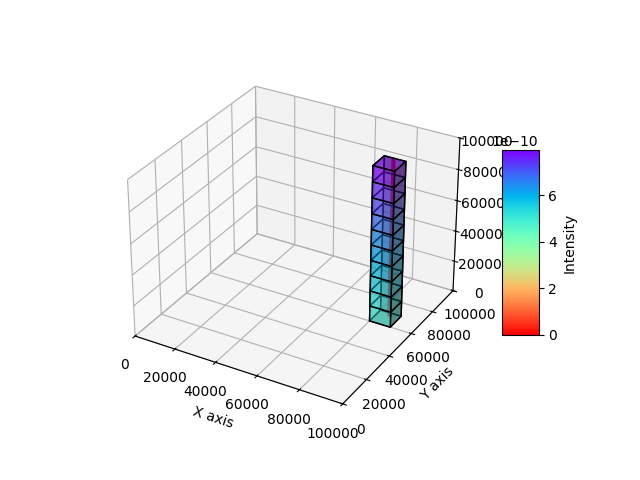
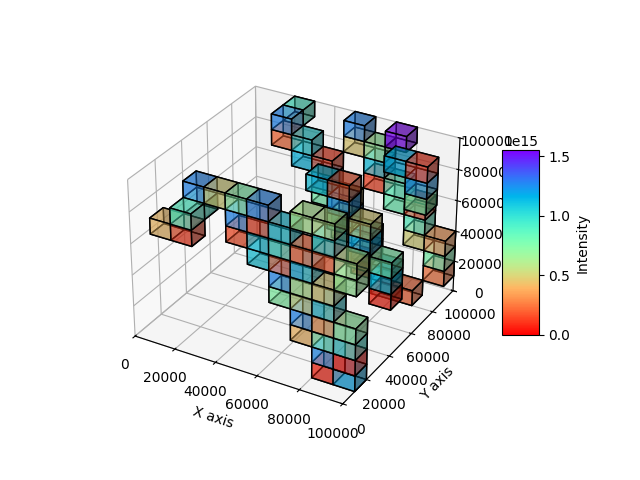
add wavelength dimension in source_function

diff --git a/src/simulation.py b/src/simulation.py
@@ -4,12 +4,22 @@ import matplotlib.cm as cm
 import matplotlib.colors as colors
 from astropy.constants import c, h, k_B
 
+def direction_in_cartesian(theta, phi):
+    dx = np.sin(theta) * np.cos(phi)
+    dy = np.sin(theta) * np.sin(phi)
+    dz = np.cos(theta)
+    return np.array([dx, dy, dz])
+
+
 class Atmosphere:
     def __init__(self, shape = (10,10,10), cell_size=1.0):
         self._shape = shape
-        self._source_function = np.zeros(shape)
+        #self._source_function = np.zeros(shape)
         self._albedo = 1.0 # only scattering
         self._cell_size = cell_size 
+        self._source_function = np.empty(self._shape, dtype=object)
+        for idx in np.ndindex(self._shape):
+            self._source_function[idx] = []  # liste vide par voxel
 
     def in_box(self, position, index=False):
         if index:
@@ -85,7 +95,7 @@ class Atmosphere:
         initial_position = photon.position()
         depth, theta, phi = photon.get_random_walk()
         length = photon.optical_length()
-        direction = photon.direction_in_cartesian(theta, phi)
+        direction = direction_in_cartesian(theta, phi)
         if not self.in_box(initial_position + direction * length):
             length = self.distance_to_boundary(initial_position, direction)
         
@@ -101,12 +111,15 @@ class Atmosphere:
         tDeltaX, tDeltaY, tDeltaZ = self.parametric_distance_in_cell(direction)
         # Current cell indices
         Xcell, Ycell, Zcell = np.floor(initial_position/self._cell_size).astype(int)
-        print(Xcell, Ycell, Zcell)
+
         while self.in_box([Xcell, Ycell, Zcell], index=True) and t_curr < length: 
             t_next = min(tMaxX, tMaxY, tMaxZ) # distance to next boundary crossing (from initial position)
             delta = min(t_next, length) - t_curr # length traveled in this cell 
             length_in_cell[Xcell, Ycell, Zcell] += delta
-            self._source_function[Xcell, Ycell, Zcell] += delta * photon.luminosity() * self._albedo / (4 * np.pi * self._cell_size ** 3)
+            deposited = delta * photon.luminosity() * self._albedo / (4 * np.pi * self._cell_size ** 3)
+            #self._source_function[Xcell, Ycell, Zcell] += deposited
+            self._source_function[Xcell, Ycell, Zcell].append((photon.wavelength(), deposited))
+
             photon.luminosity_loss(delta)
 
             if t_next == tMaxX:
@@ -118,13 +131,20 @@ class Atmosphere:
             else:
                 tMaxZ += tDeltaZ
                 Zcell += stepZ
-            #position = initial_position + direction * t_curr
-            #Xcell, Ycell, Zcell = np.floor(position / self._cell_size).astype(int)
-            print(Xcell, Ycell, Zcell)
+
             t_curr = min(t_next, length)
 
         if return_lengths:
             return length_in_cell
+        
+    def source_function_integrated(self):
+        """Compute integrated (over λ) energy per cell on demand."""
+        integrated = np.zeros(self._shape, dtype=float)
+        for idx in np.ndindex(self._shape):
+            ev = self._source_function[idx]
+            if ev:
+                integrated[idx] = sum(e for (_, e) in ev)
+        return integrated
     
     def compute_length_in_cells(self, initial_position, depth, direction):
         """
@@ -194,12 +214,6 @@ class PhotonPacket:
         self._initial_theta = initial_theta
         self._initial_phi = initial_phi
 
-    def direction_in_cartesian(self, theta, phi):
-        dx = np.sin(theta) * np.cos(phi)
-        dy = np.sin(theta) * np.sin(phi)
-        dz = np.cos(theta)
-        return np.array([dx, dy, dz])
-    
     def maximum_optical_depth(self):
         return -np.log(self._luminosity_threshold / self._luminosity)
     
@@ -221,7 +235,7 @@ class PhotonPacket:
 
     def move(self):
 
-        direction = self.direction_in_cartesian(self._theta, self._phi)
+        direction = direction_in_cartesian(self._theta, self._phi)
         new_position = self._position + self._optical_length * direction
         self._position = new_position
         self._trajectory = np.append(self._trajectory, [new_position], axis=0)
@@ -263,10 +277,19 @@ class PhotonPacket:
         return self._lambda
 
 class Star:
-    def __init__(self, T, R, D, direction= (np.pi, 0)):
-        self.T = T
-        self.R = R
-        self.D = D
+    def __init__(self, model= 'Sun',T=None, R=None, D=None, direction= (np.pi, 0)):
+        if model == 'Sun':
+            self.T = 5800  # Kelvin
+            self.R = 6.96e5  # km
+            self.D = 1.5e8  # km
+        else:
+            if T is None or R is None or D is None:
+                raise ValueError("For custom star model, T, R, and D must be provided.")
+            self.T = T
+            self.R = R
+            self.D = D
+
+        self._luminosity = 4 * np.pi * (self.R*1e6)**2 * 5.67e-8 * self.T**4  # Stefan-Boltzmann law, R in meters
         self._direction = direction
 
     def bb_shape_energy_pdf(self, x):
@@ -300,7 +323,7 @@ class Star:
                 total += take
         return np.concatenate(kept, axis=0)
         
-    def createPhotonPackets(self, initial, N, use_physical_units=False, area=1.0, dt=1.0):
+    def createPhotonPackets(self, initial, N, use_physical_units=True, area=1.0, dt=1.0):
         """
         Option A: equal-energy packets.
         - We sample *color* (x, hence lambda) from the energy PDF.
@@ -312,8 +335,12 @@ class Star:
         lam_samples = ((h*c) / k_B).value / (self.T * x_samples)  # store if you need lambda-dependent opacities
     
         if use_physical_units:
-            # You can later replace this with: weight = (∫F_lambda dλ * area * dt)/N
-            weight = 1.0 / N
+            # flux at distance D (W/m^2)
+            flux = self._luminosity / (4.0 * np.pi * (self.D ** 2))
+            # power intercepted by the target area A (W)
+            intercepted_power = flux * area
+            # assign power per packet (W)
+            weight = intercepted_power / float(N)
         else:
             weight = 1.0  # relative units: every packet identical
     
@@ -326,6 +353,12 @@ class Star:
                              initial_phi=self._direction[1])
             photons.append(p)
         return photons
+    
+    def direction(self):
+        return self._direction
+    
+    def luminosity(self):
+        return self._luminosity
 
 class Observer:
     """
@@ -335,8 +368,7 @@ class Observer:
     def __init__(self, atmosphere, star, position,
                  image_size=(200, 200), fov_deg=(10.0,10.0),
                  up=np.array([0.0, 1.0, 0.0]),
-                 forward=np.array([0.0, 0.0, 1.0]),
-                 star_direction=np.array([0.0, 0.0, 1.0])):
+                 forward=np.array([0.0, 0.0, 1.0])):
         """
         atmosphere : Atmosphere object
         star       : Star object 
@@ -361,8 +393,8 @@ class Observer:
         self.right /= np.linalg.norm(self.right)
         self.up = np.cross(self.right, self.forward)
         self.up /= np.linalg.norm(self.up)
-
-        self.star_direction = star_direction / np.linalg.norm(star_direction)
+        theta, phi = star.direction()
+        self.star_direction = direction_in_cartesian(theta, phi) / np.linalg.norm(direction_in_cartesian(theta, phi))
 
     # -----------------------------------------------------------
     def ray_direction(self, i, j):
@@ -399,7 +431,7 @@ class Observer:
 
                 # integrate emission along this ray
                 lengths = self.atm.compute_length_in_cells(self.position, depth, direction)
-                intensity = np.sum(self.atm.source_function() * lengths) #to add the exp(-tau) attenuation factor depending on optical depth?
+                intensity = np.sum(self.atm.source_function_integrated() * lengths) #to add the exp(-tau) attenuation factor depending on optical depth?
 
                 #add star  if looking toward the star
                 if include_star:
@@ -420,9 +452,9 @@ class Observer:
         plt.xlabel('x pixel')
         plt.ylabel('y pixel')
         if include_star==True:
-            plt.savefig("../figures/render_w_star.png")
+            plt.savefig("/home/localuser/Documents/MC_RAD/AtmosphericScattering/figures/render_w_star.png")
         else:
-            plt.savefig("../figures/render_wo_star.png")
+            plt.savefig("/home/localuser/Documents/MC_RAD/AtmosphericScattering/figures/render_wo_star.png")
         plt.show()
 
 class Simulation:
@@ -433,7 +465,8 @@ class Simulation:
         initial = np.array([np.random.uniform(0, self.atmosphere.shape()[0] * self.atmosphere.cell_size(), N),
                             np.random.uniform(0, self.atmosphere.shape()[1] * self.atmosphere.cell_size(), N),
                             (self.atmosphere.shape()[2] * self.atmosphere.cell_size() - 0.001)*np.ones(N)]).T
-        self.photons = self.star.createPhotonPackets(initial, N)
+        area = (self.atmosphere.shape()[0] * self.atmosphere.cell_size()) * (self.atmosphere.shape()[1] * self.atmosphere.cell_size())
+        self.photons = self.star.createPhotonPackets(initial, N, use_physical_units=True, area=area)
 
         obs_pos = [(self.atmosphere.shape()[0] * self.atmosphere.cell_size())/2, 
                    (self.atmosphere.shape()[1] * self.atmosphere.cell_size())/2,
@@ -441,33 +474,30 @@ class Simulation:
         self.observer = Observer( self.atmosphere, self.star, 
                             position=obs_pos, 
                             image_size=(200, 220), fov_deg=(30, 30), 
-                            up=np.array([0.0, 1.0, 0.0]), forward=np.array([0.0, 0.0, 1.0]),
-                            star_direction=np.array([0.0, 0.0, 1.0])
+                            up=np.array([0.0, 1.0, 0.0]), forward=np.array([0.0, 0.0, 1.0])
                         )
 
     def run(self):
         
         for photon in self.photons:
             while photon.luminosity() > photon.luminosity_threshold() and self.atmosphere.in_box(photon.position()):
-                print("Check")
                 photon.random_walk()
                 tau, theta, phi = photon.get_random_walk()
                 
                 length = photon.optical_length()
-                print(f"Optical depth: {tau}, length: {length}, Theta: {theta*180/np.pi}, Phi: {phi*180/np.pi}")
                 self.atmosphere.deposit_luminosity(photon)
-                if self.atmosphere.in_box(photon.position() + photon.direction_in_cartesian(theta, phi) * length):
+                if self.atmosphere.in_box(photon.position() + direction_in_cartesian(theta, phi) * length):
                     photon.move()
                 else:
-                    L = self.atmosphere.distance_to_boundary(photon.position(), photon.direction_in_cartesian(theta, phi))
+                    L = self.atmosphere.distance_to_boundary(photon.position(), direction_in_cartesian(theta, phi))
                     photon.set_optical_length(L)
                     photon.move()
                     break
 
     def plot(self, rays=False):
 
-        norm = colors.Normalize(vmin=np.min(self.atmosphere.source_function()), vmax=np.max(self.atmosphere.source_function()))
-        facecolors = cm.rainbow_r(norm(self.atmosphere.source_function()))
+        norm = colors.Normalize(vmin=np.min(self.atmosphere.source_function_integrated()), vmax=np.max(self.atmosphere.source_function_integrated()))
+        facecolors = cm.rainbow_r(norm(self.atmosphere.source_function_integrated()))
         nx, ny, nz = self.atmosphere.shape()
         cell_size = self.atmosphere.cell_size()
 
@@ -478,7 +508,7 @@ class Simulation:
         X, Y, Z = np.meshgrid(x, y, z, indexing='ij')
         plt.figure()
         ax = plt.axes(projection='3d')
-        ax.voxels(X, Y, Z, self.atmosphere.source_function() > 0, facecolors=facecolors, edgecolor='k', alpha=0.5)
+        ax.voxels(X, Y, Z, self.atmosphere.source_function_integrated() > 0, facecolors=facecolors, edgecolor='k', alpha=0.5)
         if rays:
             for i in range(self.N):
                 ax.plot(
@@ -505,16 +535,13 @@ class Simulation:
 if __name__ == "__main__":
     boxsize = (10, 10, 10)
     cell_size = 1.0e4
-    T = 5800
-    R = 700
-    D = 1.5e11
-    N = 1
-    
-    star = Star(T, R, D, direction=(np.pi, 0))
+
+    N = 10
+    star = Star(model='Sun', direction=(np.pi/1.2, 0))
     atm = Atmosphere(shape = boxsize, cell_size=cell_size)
     sim = Simulation(atm, star, N)
     sim.run()
-    sim.plot(rays=True)
+    sim.plot(rays=False)
     sim.observe()
 
     

diff --git a/tests/test_source_function.py b/tests/test_source_function.py
@@ -37,7 +37,7 @@ def test_plot_atmosphere():
     photon = simulation.PhotonPacket()
     photon._theta = 0.9553166181245092  # ~54.7356 degrees
     photon._phi = np.pi / 4
-    dir = photon.direction_in_cartesian(photon._theta, photon._phi)
+    dir = simulation.direction_in_cartesian(photon._theta, photon._phi)
     photon._optical_length = atmosphere.distance_to_boundary(photon.position(), dir)
 
     lengths = atmosphere.deposit_luminosity(photon, return_lengths=True)
@@ -85,16 +85,14 @@ def test_plot_atmosphere():
 def test_plot_sourceFunction():
     """Test the plotting of the source function."""
     atmosphere = simulation.Atmosphere(cell_size=1e4)
-    photon = simulation.PhotonPacket(position=np.array([0,0,10.5]))
+    photon = simulation.PhotonPacket(position=np.array([0,0,atmosphere.shape()[0] * atmosphere.cell_size()/2]))
     photon._theta = np.pi / 2
 
-    dir = photon.direction_in_cartesian(photon._theta, photon._phi)
+    dir = simulation.direction_in_cartesian(photon._theta, photon._phi)
     photon._optical_length = np.min([atmosphere.distance_to_boundary(photon.position(), dir), photon.maximum_optical_depth()/photon._scattering_coefficient])
-    print("Distance to boundary :",atmosphere.distance_to_boundary(photon.position(), dir), " maximal ", photon.maximum_optical_depth(), "optical length:", photon._optical_length)
     atmosphere.deposit_luminosity(photon)
     photon.move()
-    source_function = atmosphere.source_function()
-    print(source_function[source_function>0])
+    source_function = atmosphere.source_function_integrated()
     from matplotlib import cm, colors
     norm = colors.Normalize(vmin=np.min(source_function), vmax=np.max(source_function))
     facecolors = cm.rainbow_r(norm(source_function))
@@ -125,7 +123,20 @@ def test_plot_sourceFunction():
     ax.set_zlim(0, atmosphere.shape()[2] * atmosphere.cell_size())
     plt.colorbar(cm.ScalarMappable(norm=norm, cmap='rainbow_r'), ax=ax, shrink=0.5, aspect=5, label='intensity')
     plt.savefig('/home/localuser/Documents/MC_RAD/AtmosphericScattering/figures/test_plot_sourceFunction.png')
-    plt.show()
+    plt.close()
+
+def test_total_luminosity():
+    """Test that the total luminosity does not depend on the photon number"""
+    total_deposited=[]
+    for i in range(2):
+        star = simulation.Star(direction=(np.pi/1.2, 0))
+        atmosphere = simulation.Atmosphere(shape=(10, 10, 10), cell_size=1e4)
+        sim1 = simulation.Simulation(atmosphere, star, N=10000 * (i +1) )
+        sim1.run()
+
+        total_deposited.append(np.sum(atmosphere.source_function_integrated()))
+
+    assert np.isclose(total_deposited[0], total_deposited[1], rtol=1e-2), f"Total deposited luminosity should be similar for different photon numbers, got {total_deposited[0]} and {total_deposited[1]}"
 
 
 if __name__ == "__main__":
@@ -135,4 +146,6 @@ if __name__ == "__main__":
     print("test_plot_atmosphere passed.")
     test_plot_sourceFunction()
     print("test_plot_sourceFunction passed.")
+    test_total_luminosity()
+    print("test_total_luminosity passed.")
 
